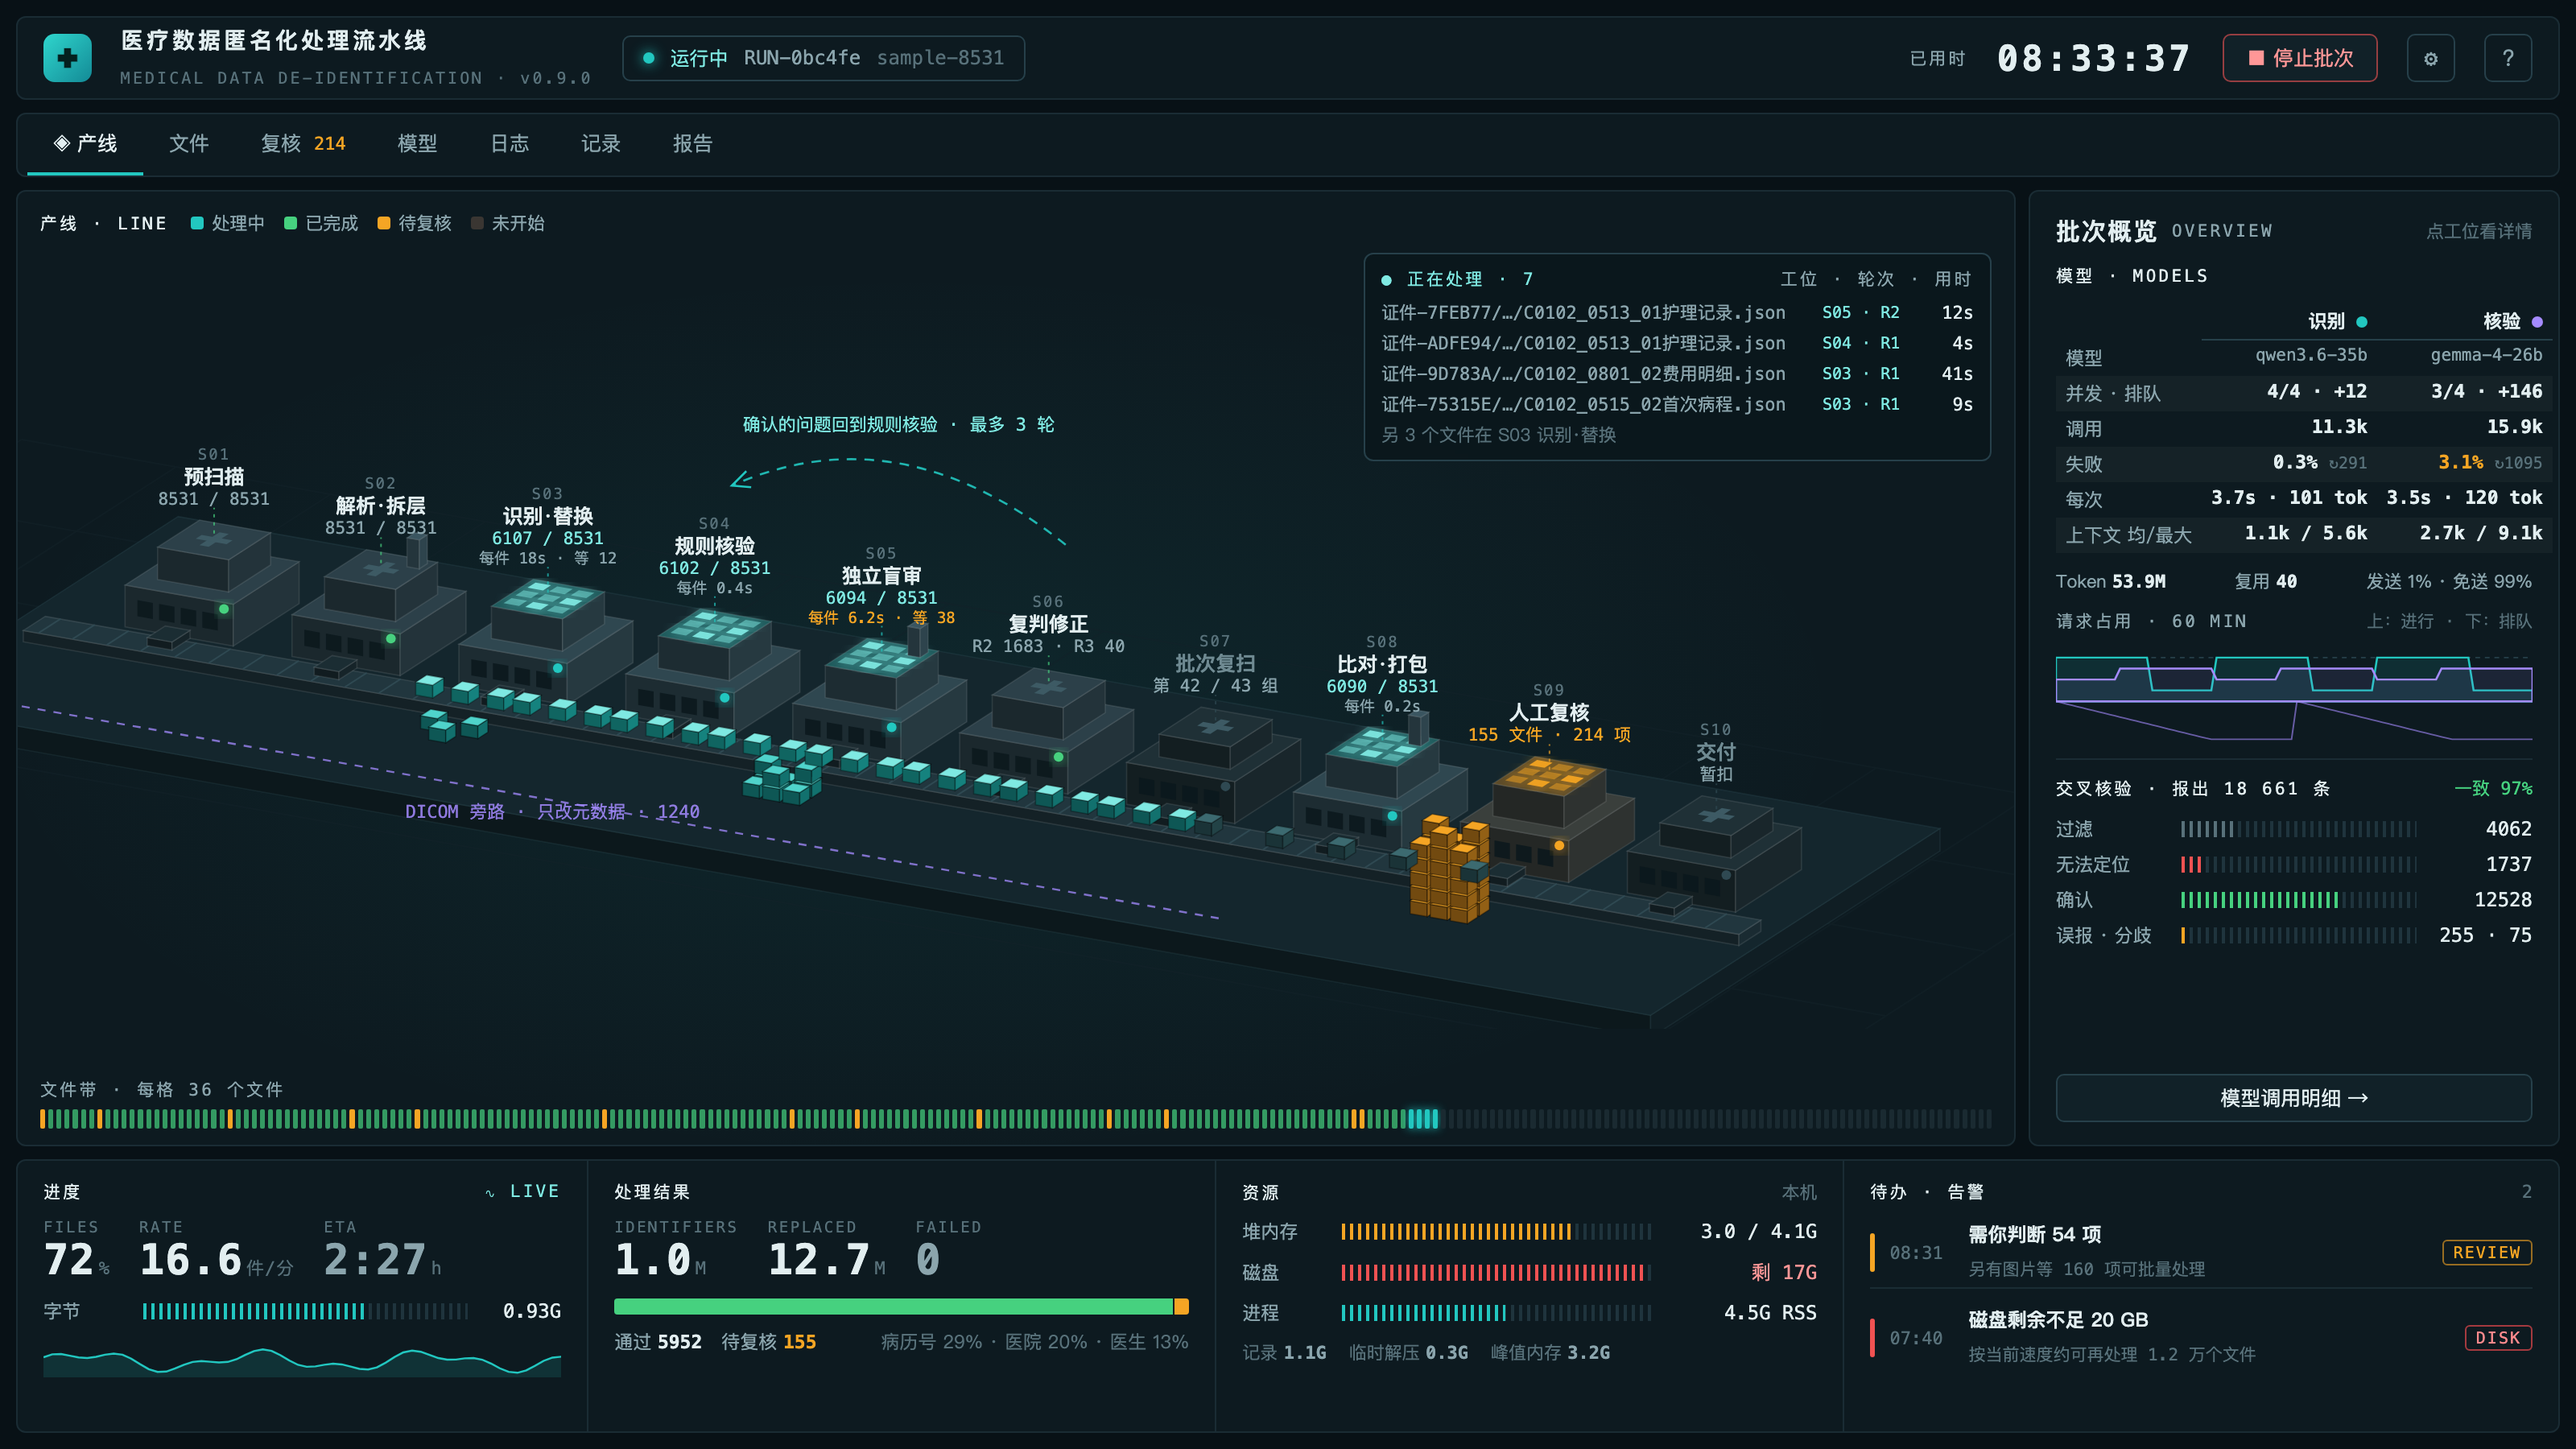
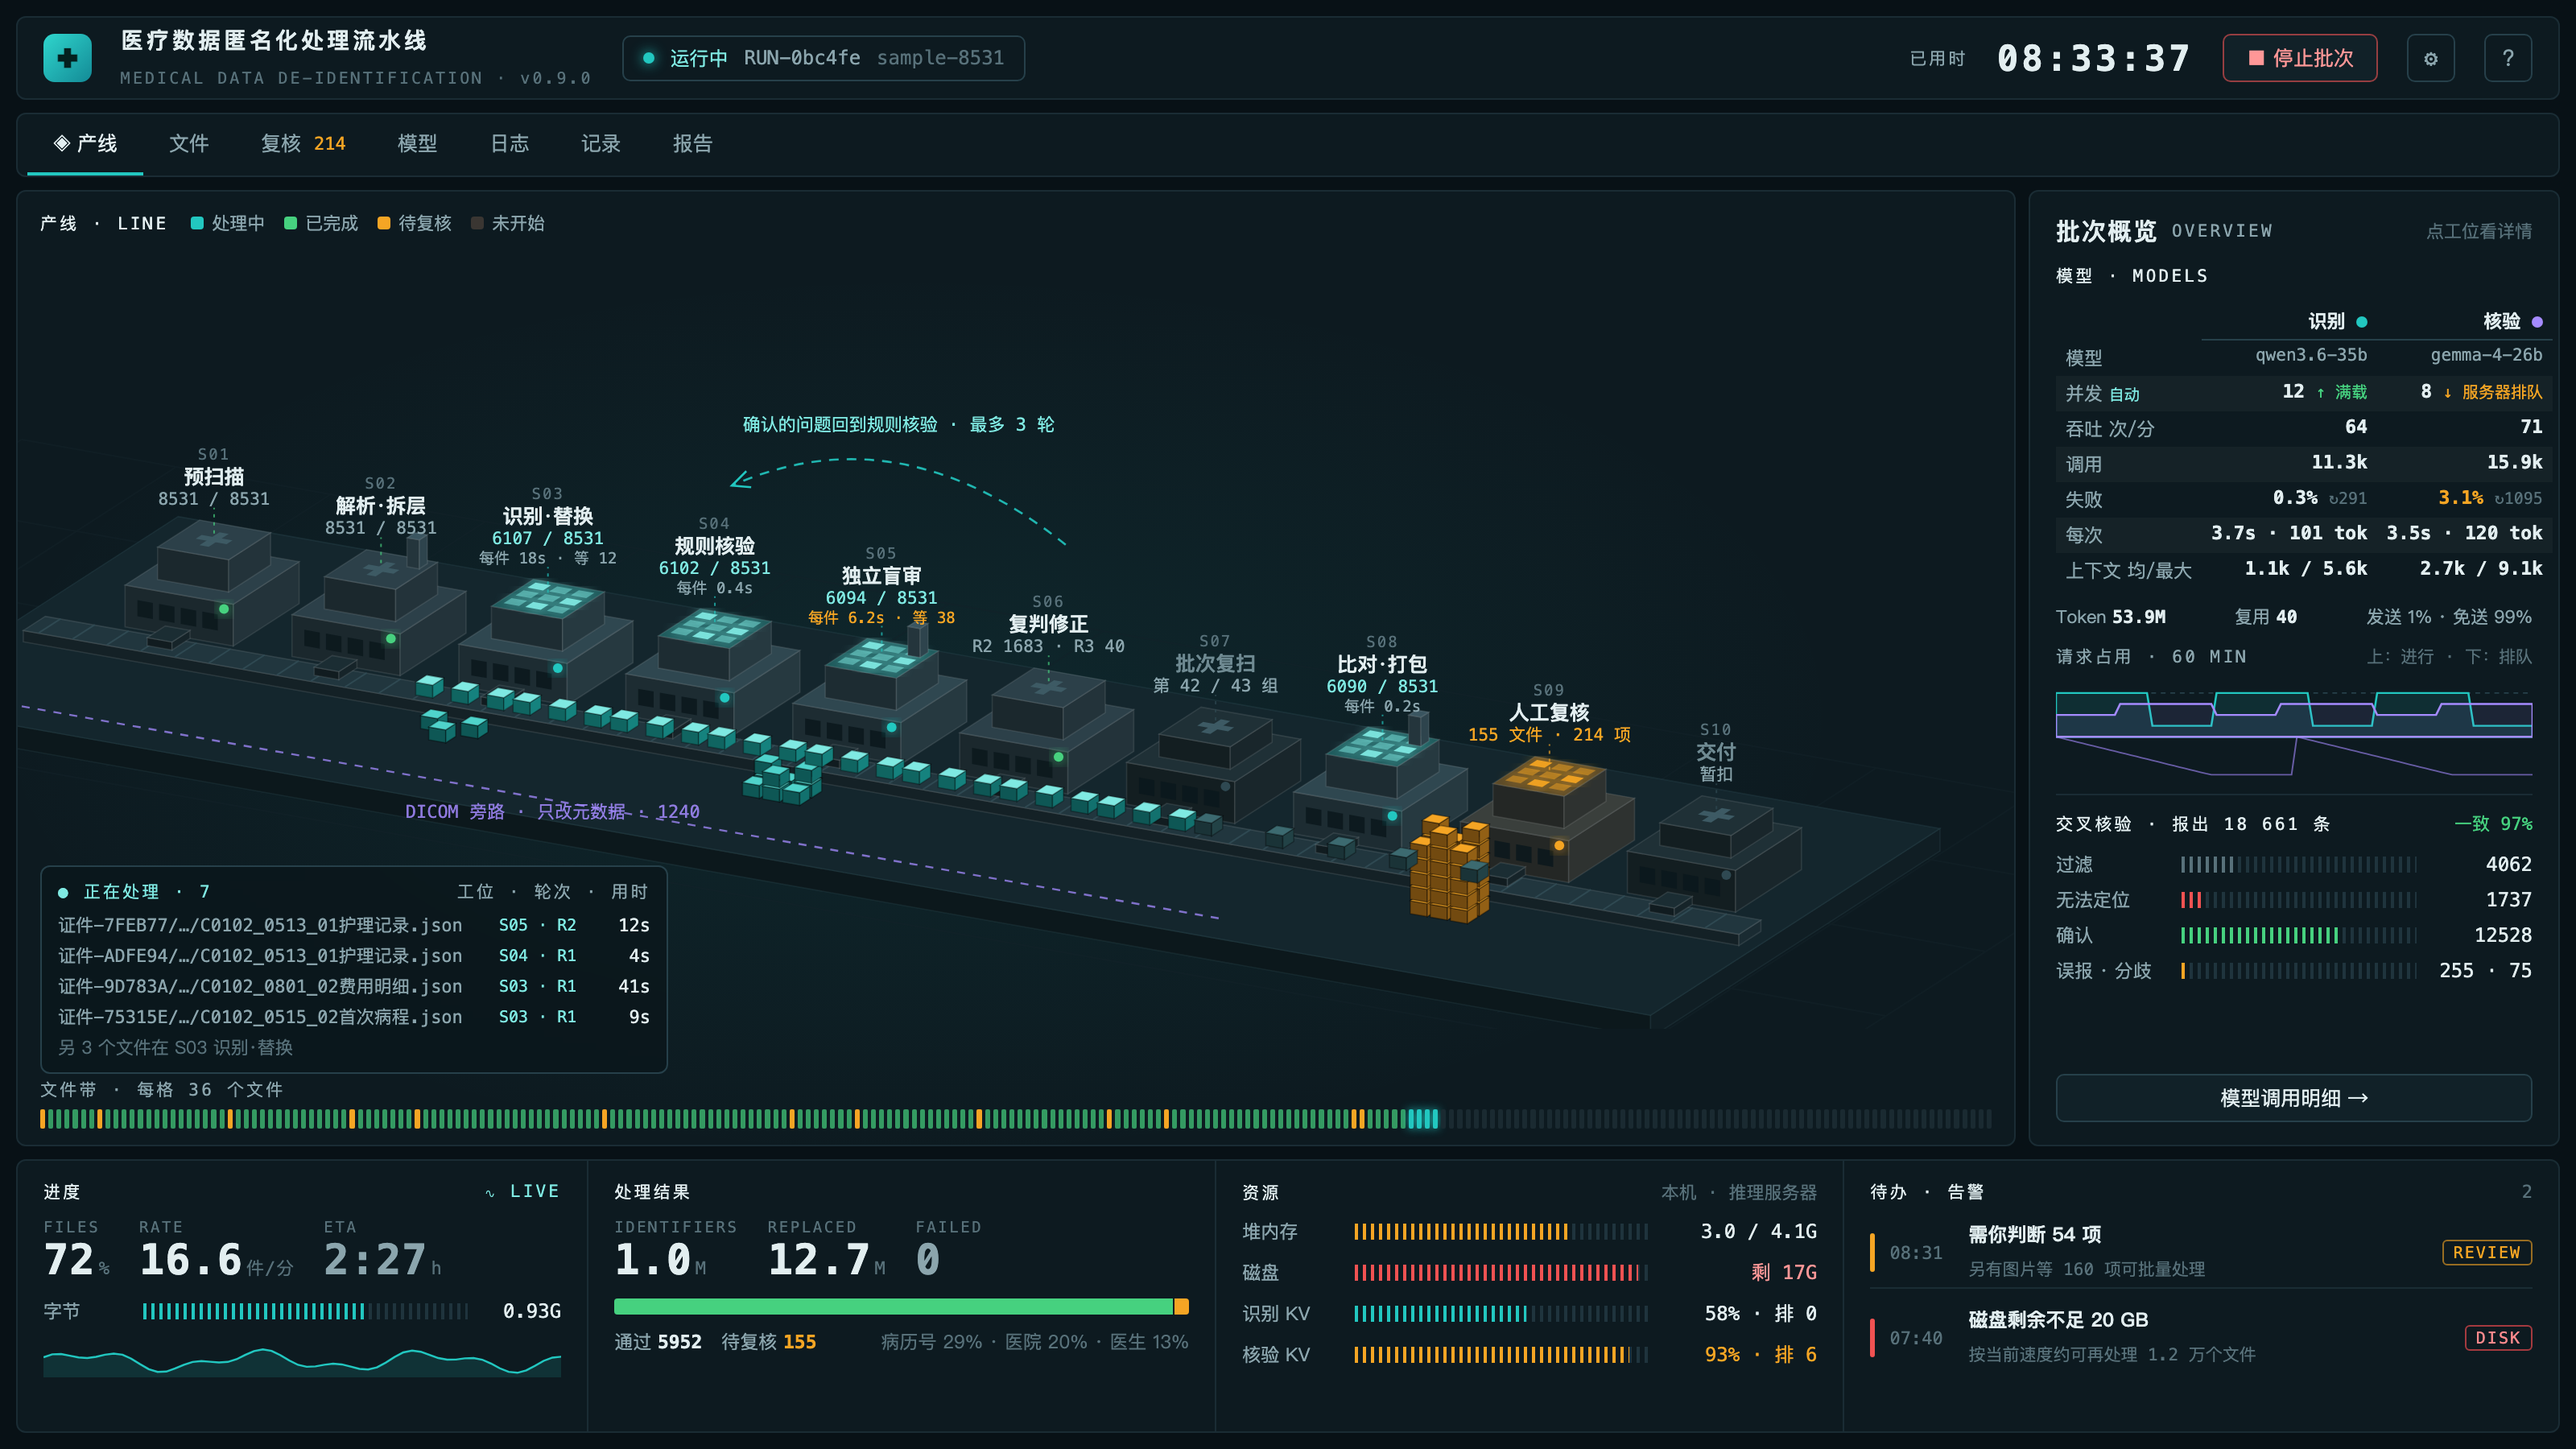
Mockup: in-flight list back bottom-left; server KV/queue in resources; auto concurrency and throughput in the model table

diff --git a/design/mockup-teal.html b/design/mockup-teal.html
@@ -51,7 +51,7 @@
   .legend i { display: inline-block; width: 8px; height: 8px; border-radius: 2px; margin-right: 5px; vertical-align: 0; }
   .strip { position: absolute; left: 14px; right: 14px; bottom: 10px; }
   .ov { position: absolute; border: 1px solid var(--line2); background: rgba(10,22,27,.82); backdrop-filter: blur(4px); border-radius: 6px; padding: 8px 10px; display: flex; flex-direction: column; gap: 4px; }
-  .ov-tl { right: 14px; top: 38px; width: 390px; }
+  .ov-tl { left: 14px; bottom: 44px; width: 390px; }
   .ov-br { right: 14px; top: 38px; width: 340px; border-color: rgba(245,165,36,.45); }
   .ovh { display: flex; justify-content: space-between; align-items: center; gap: 8px; margin-bottom: 2px; white-space: nowrap; }
   .ovh .btn { white-space: nowrap; }
@@ -167,11 +167,12 @@
       <div class="mtab">
         <span></span><b class="h">识别 <i style="background:var(--amber)"></i></b><b class="h">核验 <i style="background:var(--blue)"></i></b>
         <span>模型</span><b class="m">qwen3.6-35b</b><b class="m">gemma-4-26b</b>
-        <span class="z">并发 · 排队</span><b class="z">4/4 · +12</b><b class="z">3/4 · +146</b>
-        <span>调用</span><b>11.3k</b><b>15.9k</b>
-        <span class="z">失败</span><b class="z">0.3% <small>↻291</small></b><b class="z" style="color:var(--warn)">3.1% <small>↻1095</small></b>
-        <span>每次</span><b>3.7s · 101 tok</b><b>3.5s · 120 tok</b>
-        <span class="z">上下文 均/最大</span><b class="z">1.1k / 5.6k</b><b class="z">2.7k / 9.1k</b>
+        <span class="z">并发 <small style="color:var(--amber2)">自动</small></span><b class="z">12 <small style="color:var(--ok)">↑ 满载</small></b><b class="z">8 <small style="color:var(--warn)">↓ 服务器排队</small></b>
+        <span>吞吐 次/分</span><b>64</b><b>71</b>
+        <span class="z">调用</span><b class="z">11.3k</b><b class="z">15.9k</b>
+        <span>失败</span><b>0.3% <small>↻291</small></b><b style="color:var(--warn)">3.1% <small>↻1095</small></b>
+        <span class="z">每次</span><b class="z">3.7s · 101 tok</b><b class="z">3.5s · 120 tok</b>
+        <span>上下文 均/最大</span><b>1.1k / 5.6k</b><b>2.7k / 9.1k</b>
       </div>
       <div style="display:flex;justify-content:space-between;font-size:11px;color:var(--ink2)"><span>Token <b class="num" style="color:var(--ink)">53.9M</b></span><span>复用 <b class="num" style="color:var(--ink)">40</b></span><span>发送 1% · 免送 99%</span></div>
       <div class="dh"><span class="cap">请求占用 · 60 MIN</span><span class="sp"></span><span class="num" style="font-size:10.5px;color:var(--ink3)">上：进行 · 下：排队</span></div>
@@ -208,11 +209,11 @@
       <div style="display:flex;gap:12px;font-size:11.5px;color:var(--ink2);white-space:nowrap"><span>通过 <b class="num" style="color:var(--ink)">5952</b></span><span>待复核 <b class="num" style="color:var(--warn)">155</b></span><span style="margin-left:auto;color:var(--ink3)">病历号 29% · 医院 20% · 医生 13%</span></div>
     </div>
     <div class="bp">
-      <div class="bh"><span class="cap" style="color:var(--ink)">资源</span><span class="num" style="font-size:11px;color:var(--ink3)">本机</span></div>
-      <div class="bar" style="grid-template-columns:54px 1fr 92px"><span>堆内存</span><div class="track"><div class="ticks" style="--w:73%;--fill:var(--warn)"></div></div><span class="num">3.0 / 4.1G</span></div>
-      <div class="bar" style="grid-template-columns:54px 1fr 92px"><span>磁盘</span><div class="track"><div class="ticks" style="--w:96%;--fill:var(--bad)"></div></div><span class="num" style="color:#ff9797">剩 17G</span></div>
-      <div class="bar" style="grid-template-columns:54px 1fr 92px"><span>进程</span><div class="track"><div class="ticks" style="--w:52%"></div></div><span class="num">4.5G RSS</span></div>
-      <div style="display:flex;gap:14px;font-size:11px;color:var(--ink3)"><span>记录 <b class="num" style="color:var(--ink2)">1.1G</b></span><span>临时解压 <b class="num" style="color:var(--ink2)">0.3G</b></span><span>峰值内存 <b class="num" style="color:var(--ink2)">3.2G</b></span></div>
+      <div class="bh"><span class="cap" style="color:var(--ink)">资源</span><span class="num" style="font-size:11px;color:var(--ink3)">本机 · 推理服务器</span></div>
+      <div class="bar" style="grid-template-columns:62px 1fr 96px"><span>堆内存</span><div class="track"><div class="ticks" style="--w:73%;--fill:var(--warn)"></div></div><span class="num">3.0 / 4.1G</span></div>
+      <div class="bar" style="grid-template-columns:62px 1fr 96px"><span>磁盘</span><div class="track"><div class="ticks" style="--w:96%;--fill:var(--bad)"></div></div><span class="num" style="color:#ff9797">剩 17G</span></div>
+      <div class="bar" style="grid-template-columns:62px 1fr 96px"><span>识别 KV</span><div class="track"><div class="ticks" style="--w:58%"></div></div><span class="num">58% · 排 0</span></div>
+      <div class="bar" style="grid-template-columns:62px 1fr 96px"><span>核验 KV</span><div class="track"><div class="ticks" style="--w:93%;--fill:var(--warn)"></div></div><span class="num" style="color:var(--warn)">93% · 排 6</span></div>
     </div>
     <div class="bp">
       <div class="bh"><span class="cap" style="color:var(--ink)">待办 · 告警</span><span class="num" style="font-size:11px;color:var(--ink3)">2</span></div>
